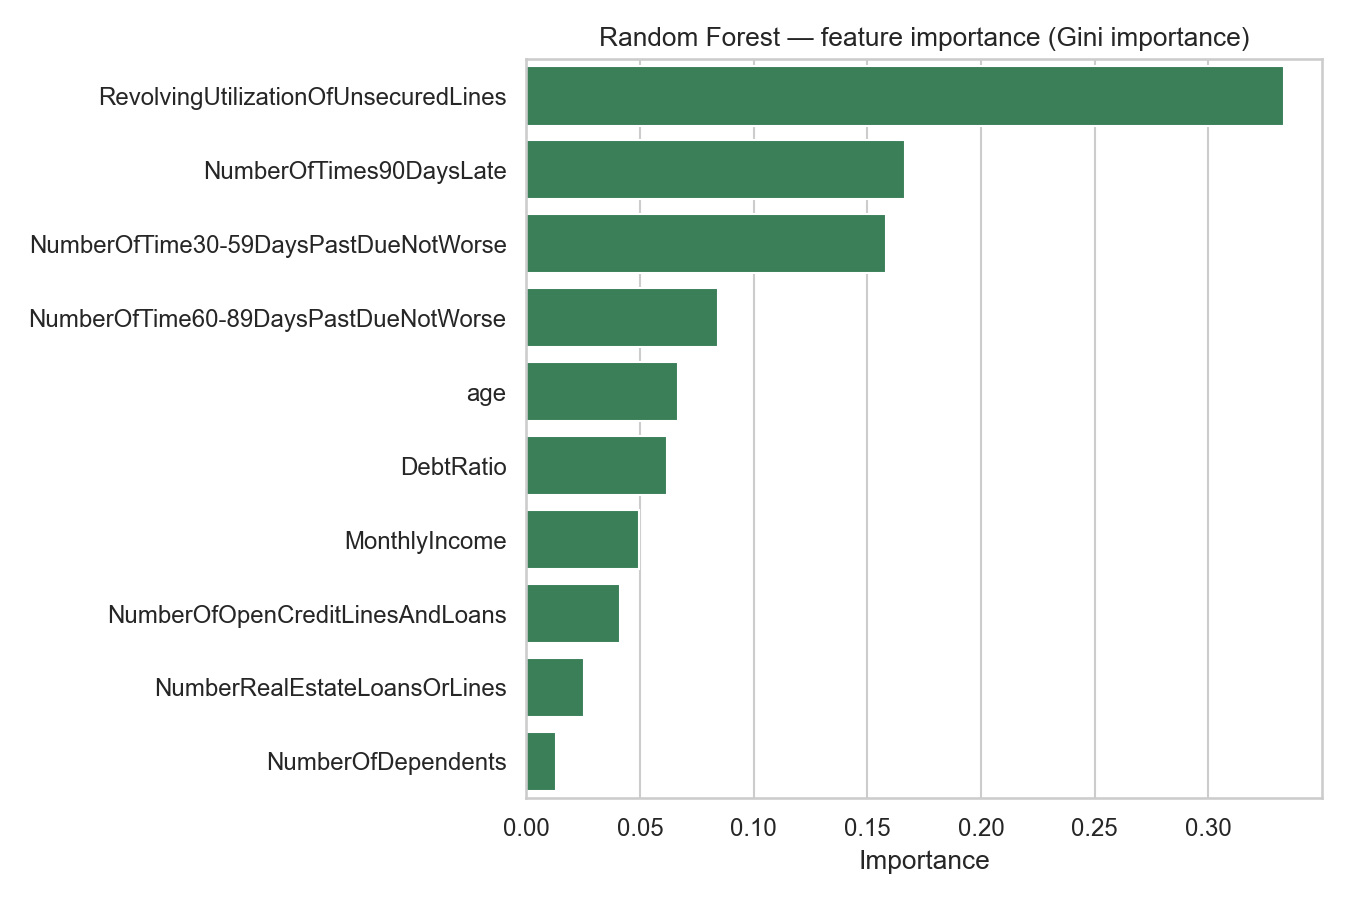
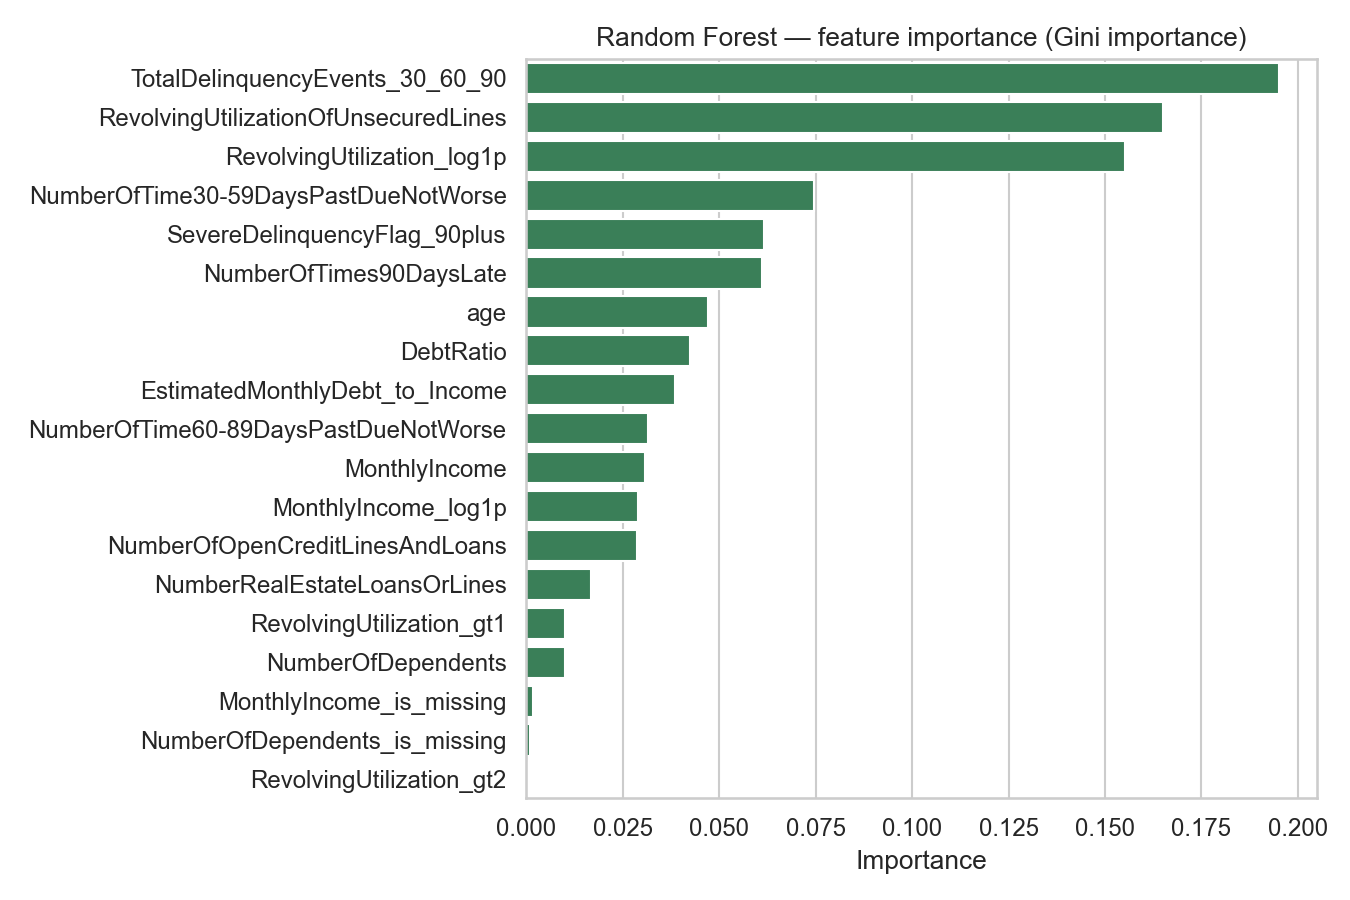
additional assignment

diff --git a/eda_credit_scoring.py b/eda_credit_scoring.py
@@ -31,6 +31,7 @@ import matplotlib.pyplot as plt
 import numpy as np
 import pandas as pd
 import seaborn as sns
+from scipy import stats
 from sklearn.compose import ColumnTransformer
 from sklearn.impute import SimpleImputer
 from sklearn.linear_model import LogisticRegression
@@ -312,6 +313,128 @@ def plot_utilization_vs_default(df: pd.DataFrame) -> None:
     plt.close(fig)
 
 
+def numeric_feature_columns(df: pd.DataFrame) -> list[str]:
+    """Numeric feature list excluding id and target."""
+    return [
+        c
+        for c in df.columns
+        if c not in ("borrower_id", "SeriousDlqin2yrs") and pd.api.types.is_numeric_dtype(df[c])
+    ]
+
+
+def univariate_statistics_report(df: pd.DataFrame) -> pd.DataFrame:
+    """
+    Build univariate statistics per numeric feature.
+
+    Includes quartiles, skewness, and kurtosis requested in the assignment.
+    """
+    rows = []
+    for col in numeric_feature_columns(df):
+        s = df[col].dropna()
+        q1 = s.quantile(0.25)
+        q2 = s.quantile(0.50)
+        q3 = s.quantile(0.75)
+        rows.append(
+            {
+                "feature": col,
+                "count": int(s.shape[0]),
+                "mean": float(s.mean()),
+                "std": float(s.std(ddof=1)),
+                "min": float(s.min()),
+                "q1": float(q1),
+                "median_q2": float(q2),
+                "q3": float(q3),
+                "max": float(s.max()),
+                "iqr": float(q3 - q1),
+                "skewness": float(s.skew()),
+                "kurtosis_excess": float(s.kurt()),
+            }
+        )
+    return pd.DataFrame(rows).sort_values("feature").reset_index(drop=True)
+
+
+def outlier_iqr_report(df: pd.DataFrame) -> pd.DataFrame:
+    """Detect outliers using 1.5*IQR rule for each numeric feature."""
+    rows = []
+    n = len(df)
+    for col in numeric_feature_columns(df):
+        s = df[col].dropna()
+        q1 = s.quantile(0.25)
+        q3 = s.quantile(0.75)
+        iqr = q3 - q1
+        lo = q1 - 1.5 * iqr
+        hi = q3 + 1.5 * iqr
+        outlier_mask = (s < lo) | (s > hi)
+        outlier_count = int(outlier_mask.sum())
+        rows.append(
+            {
+                "feature": col,
+                "lower_bound": float(lo),
+                "upper_bound": float(hi),
+                "outlier_count": outlier_count,
+                "outlier_pct_of_rows": round(100.0 * outlier_count / n, 4),
+            }
+        )
+    return pd.DataFrame(rows).sort_values("outlier_pct_of_rows", ascending=False).reset_index(
+        drop=True
+    )
+
+
+def hypothesis_testing_report(df: pd.DataFrame) -> pd.DataFrame:
+    """
+    Run hypothesis tests between target classes:
+    - Welch's t-test for difference in means per numeric feature.
+    """
+    y0 = df["SeriousDlqin2yrs"] == 0
+    y1 = df["SeriousDlqin2yrs"] == 1
+
+    rows = []
+    for col in numeric_feature_columns(df):
+        s0 = df.loc[y0, col].dropna()
+        s1 = df.loc[y1, col].dropna()
+        t_stat, p_value = stats.ttest_ind(s1, s0, equal_var=False, nan_policy="omit")
+        rows.append(
+            {
+                "feature": col,
+                "mean_target_1": float(s1.mean()),
+                "mean_target_0": float(s0.mean()),
+                "mean_diff_1_minus_0": float(s1.mean() - s0.mean()),
+                "t_statistic": float(t_stat),
+                "p_value": float(p_value),
+                "significant_at_0_05": bool(p_value < 0.05),
+            }
+        )
+    return pd.DataFrame(rows).sort_values("p_value").reset_index(drop=True)
+
+
+def plot_bivariate_relationships(df: pd.DataFrame) -> None:
+    """Bivariate boxplots: key numeric features by target class."""
+    fig, axes = plt.subplots(2, 2, figsize=(12, 8))
+    pairs = [
+        ("RevolvingUtilizationOfUnsecuredLines", "Utilization by target"),
+        ("DebtRatio", "Debt ratio by target"),
+        ("MonthlyIncome", "Monthly income by target"),
+        ("NumberOfTimes90DaysLate", "90+ days late count by target"),
+    ]
+    for ax, (col, title) in zip(axes.flat, pairs):
+        plot_df = df[["SeriousDlqin2yrs", col]].copy()
+        plot_df[col] = cap_series_for_plot(plot_df[col], 0.995)
+        sns.boxplot(
+            data=plot_df,
+            x="SeriousDlqin2yrs",
+            y=col,
+            ax=ax,
+            palette="Set2",
+            showfliers=False,
+        )
+        ax.set_title(title)
+        ax.set_xlabel("Target (0=no distress, 1=distress)")
+    plt.suptitle("Bivariate analysis — distributions by target class", y=1.02, fontsize=13)
+    plt.tight_layout()
+    fig.savefig(FIGURES_DIR / "07_bivariate_boxplots_by_target.png", dpi=150)
+    plt.close(fig)
+
+
 def build_feature_matrix(df: pd.DataFrame) -> tuple[pd.DataFrame, pd.Series]:
     """
     Separate id/target from predictors used in sklearn.
@@ -436,6 +559,9 @@ def write_summary_text(
     df: pd.DataFrame,
     quality: pd.DataFrame,
     model_results: dict,
+    univariate_stats: pd.DataFrame,
+    outlier_stats: pd.DataFrame,
+    hypothesis_stats: pd.DataFrame,
 ) -> None:
     """Plain-text summary file for your written report (copy/paste friendly)."""
     lines = []
@@ -467,7 +593,32 @@ def write_summary_text(
         "  - Accuracy can look 'high' when defaults are rare; always pair with AUC + confusion matrix."
     )
     lines.append("")
+    lines.append("Univariate analysis (with quartiles, skewness, kurtosis):")
+    for _, r in univariate_stats.head(5).iterrows():
+        lines.append(
+            f"  {r['feature']}: Q1={r['q1']:.3f}, Median={r['median_q2']:.3f}, "
+            f"Q3={r['q3']:.3f}, Skew={r['skewness']:.3f}, Kurtosis={r['kurtosis_excess']:.3f}"
+        )
+    lines.append("")
+    lines.append("Outlier detection (IQR method, top 5 by outlier %):")
+    for _, r in outlier_stats.head(5).iterrows():
+        lines.append(
+            f"  {r['feature']}: {int(r['outlier_count'])} outliers "
+            f"({r['outlier_pct_of_rows']:.2f}% of rows)"
+        )
+    lines.append("")
+    lines.append("Hypothesis testing (Welch t-test, top 5 smallest p-values):")
+    for _, r in hypothesis_stats.head(5).iterrows():
+        lines.append(
+            f"  {r['feature']}: p-value={r['p_value']:.3e}, "
+            f"mean_diff(1-0)={r['mean_diff_1_minus_0']:.4f}"
+        )
+    lines.append("")
     lines.append("Figures saved under outputs/figures/ (PNG).")
+    lines.append("Additional tables saved under outputs/:")
+    lines.append("  - univariate_statistics.csv")
+    lines.append("  - outlier_detection_iqr.csv")
+    lines.append("  - hypothesis_testing_results.csv")
 
     out_path = OUTPUT_DIR / "eda_summary.txt"
     out_path.write_text("\n".join(lines), encoding="utf-8")
@@ -495,6 +646,15 @@ def main() -> None:
     plot_key_distributions(df_eda)
     plot_delinquency_risk(df_eda)
     plot_utilization_vs_default(df_eda)
+    plot_bivariate_relationships(df_eda)
+
+    print("Computing univariate, quartile, skewness, kurtosis, outlier, and hypothesis reports...")
+    univariate_stats = univariate_statistics_report(df_eda)
+    univariate_stats.to_csv(OUTPUT_DIR / "univariate_statistics.csv", index=False)
+    outlier_stats = outlier_iqr_report(df_eda)
+    outlier_stats.to_csv(OUTPUT_DIR / "outlier_detection_iqr.csv", index=False)
+    hypothesis_stats = hypothesis_testing_report(df_eda)
+    hypothesis_stats.to_csv(OUTPUT_DIR / "hypothesis_testing_results.csv", index=False)
 
     print("Training baseline models (this may take ~1–2 minutes on a laptop)...")
     X, y = build_feature_matrix(raw)  # use raw + pipeline imputation for modeling
@@ -505,7 +665,14 @@ def main() -> None:
         model_results["random_forest"]["feature_names"],
     )
 
-    write_summary_text(raw, quality, model_results)
+    write_summary_text(
+        raw,
+        quality,
+        model_results,
+        univariate_stats,
+        outlier_stats,
+        hypothesis_stats,
+    )
 
     print("\n--- Model results (test set) ---")
     for name, m in model_results.items():
